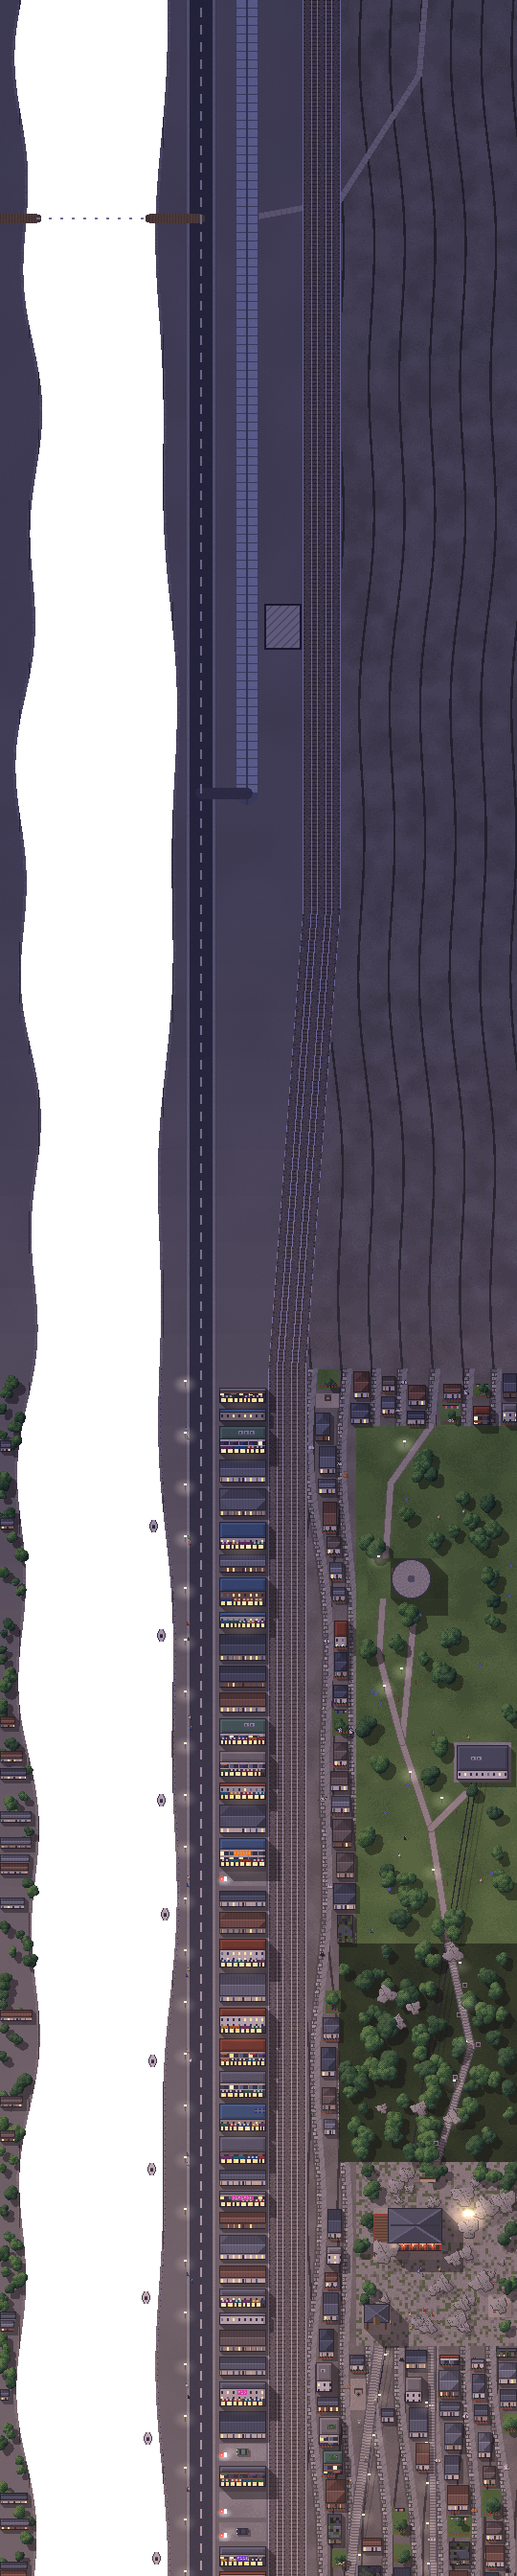
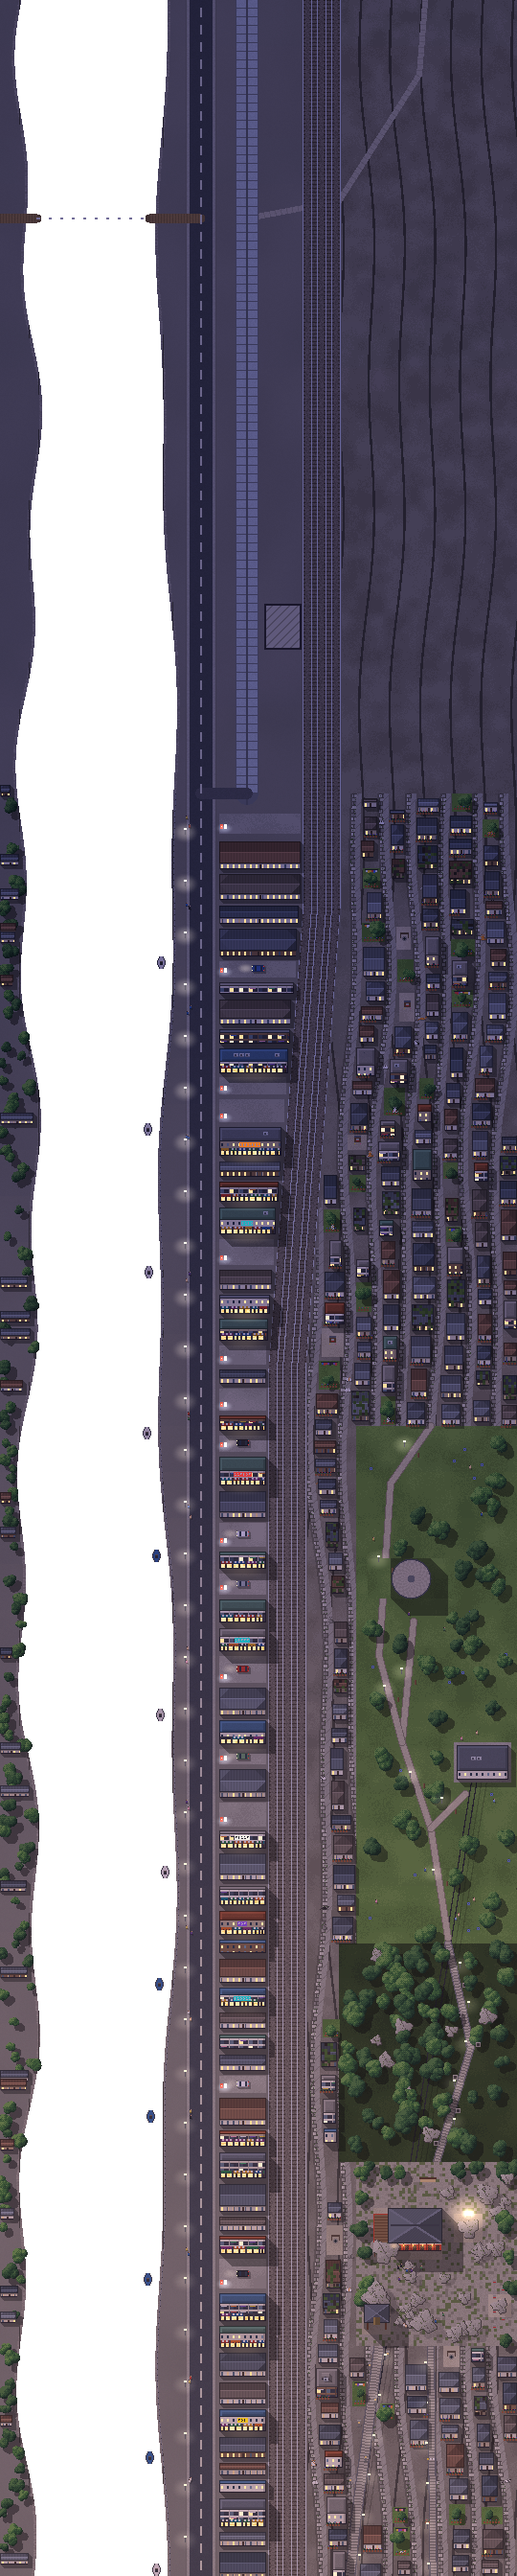
Onomichi, phase 5: Senko-ji's whole hillside (u 3800-5100), the close-up approved by the author. The terraces, walls, lanes, houses, steps and cats now run the whole stretch; the old temples of the temple walk at the heads of their steps, each with its court of raked gravel, its main hall under a gr

diff --git a/docs/plan-onomichi.md b/docs/plan-onomichi.md
@@ -1,6 +1,6 @@
 # Plan: etap 11, ONOMICHI
 
-Stan: **w budowie**. Plan i decyzje D1–D7 przyjęte przez autora 2026-11-18 według rekomendacji („najwyżej zmienimy później”). Fazy 0–1 gotowe, faza 4 czeka na akceptację zbliżenia stoku. Fazy z sekcji 8 idą po kolei, a postęp odznacza się w nich checkboxami.
+Stan: **w budowie**. Plan i decyzje D1–D7 przyjęte przez autora 2026-11-18 według rekomendacji („najwyżej zmienimy później”). Fazy 0, 1, 4 i 5 gotowe (zbliżenie stoku przyjęte przez autora 2026-11-18). Fazy z sekcji 8 idą po kolei, a postęp odznacza się w nich checkboxami.
 
 ## 1. W skrócie
 
@@ -162,12 +162,12 @@ Wymaga: faza 1. Pliki: `tools/art/onomichi/suido.mjs`, `jodoji.mjs`.
 ### Faza 4: zbliżenie stoku do akceptacji
 Wymaga: faza 1. Plik: `tools/art/onomichi/senkoji.mjs`.
 - [x] Zbliżenie 1:1 kawałka stoku (u 4040–4900: pagoda Tennei-ji, uliczka kotów, Senkō-ji, las i park na szczycie, miasto pod torem, nabrzeże) według sekcji 4.1, wysłane autorowi 2026-11-18 (`tools/art/onomichi/senkoji.mjs`, podgląd: `node tools/art/onomichi/overview.mjs --from=4040 --to=4900`)
-- [ ] Akceptacja autora; dalej dopiero po niej
+- [x] Akceptacja autora (2026-11-18: „tak”)
 
 ### Faza 5: stok Senkō-ji (u 3800–5100)
 Wymaga: faza 4. Plik: `tools/art/onomichi/senkoji.mjs`.
-- [ ] Cały odcinek: tarasy, mury, schody, domy, świątynie na różnych wysokościach, Senkō-ji z czerwoną salą, Tamanoiwa (klejnot świeci o zmierzchu), skała-lustro, ścieżka literatury, park na szczycie, kolejka linowa, uliczka kotów, arena minibossa na dachach
-- [ ] Animacje: gondole, koty w miejscu, lampiony i latarnie przy schodach zapalające się o zmierzchu, pociąg pod stokiem
+- [x] Cały odcinek (u 3800–5100): tarasy, mury, schody, domy, świątynie na różnych wysokościach (Daisan-ji, Fukuzen-ji z bramą ze smokiem, Kōmyō-ji, Tennei-ji z pagodą), Senkō-ji z czerwoną salą, Tamanoiwa (klejnot świeci o zmierzchu), skała-lustro, ścieżka literatury, park na szczycie, kolejka linowa, uliczka kotów, arena minibossa na dachach (bez znacznika)
+- [x] Animacje: gondole, koty w miejscu (ogon, ucho, ziewnięcie), latarnie przy schodach i lampiony zapalające się o zmierzchu, pociągi w obie strony na całym torze od zakrętu do dworca (zielony pas, bez barw przewoźnika)
 
 ### Faza 6: Hondōri i dworzec (u 5100–7168)
 Wymaga: faza 1. Pliki: `tools/art/onomichi/hondori.mjs`, `minato.mjs`.
@@ -229,6 +229,7 @@ Po każdej sesji jeden wiersz: kto, która faza, co zrobione, co zostało, na co
 
 | Data | Kto | Faza | Zrobione | Zostało / uwagi |
 |---|---|---|---|---|
+| 2026-11-18 | Claude | 5 | `senkoji.mjs` rysuje cały odcinek 3800–5100: dodane świątynie przy schodach (`temple`: dziedziniec z grabionym żwirem, sala pod wielkim dachem, brama, latarnie, sosna, dzwonnica), pociągi na torze `sanyo`, 24 koty animowane w miejscu; arena kota bez znacznika. Sprawdzone zrzutami w grze w 115 i 143 s. | Pociągi jadą po całym torze, więc widać je też na odcinkach jeszcze w szkicu. Następne: fazy 2, 3 i 6 (wyspy, cieśnina z Jōdo-ji, Hondōri z dworcem). |
 | 2026-11-18 | Claude | 4 | Zbliżenie stoku w `senkoji.mjs` (malarz w `PAINTERS`, rysuje na razie u 4040–4900): tarasy wzdłuż poziomic z murami z granitu i uliczkami u ich stóp, domy pod szarą dachówką, puste domy w bluszczu, ogródki, studnie i kapliczki jizō, pranie i doniczki, schody z poręczami i latarniami, koty (sześć umaszczeń, pięć póz), pagoda Tennei-ji, Senkō-ji z czerwoną salą na skale, głazami, kamiennymi Buddami, lampionami, Tamanoiwą ze świecącym klejnotem, skałą-lustrem i dzwonnicą, las ze ścieżką literatury, park z alejkami, ławkami i okrągłym tarasem, kolejka linowa z dwiema gondolami, miasto pod torem z automatami i podwórkami, latarnie i ludzie na nabrzeżu, łodzie przy nabrzeżu, brzeg Mukaishimy. Zmierzch rozjaśniony w `TOD`. | Czeka na akceptację. Poza u 4040–4900 dalej szkielet; łączenie z resztą w fazie 5. |
 | 2026-11-18 | Claude | 1 | Trasa jako dane w `tools/art/onomichi/route.mjs`, szkielet malowany z danych w `mid.mjs` (na bazie Kawaguchiko; nowe klasy dróg: `express` na filarach, `cycle` z niebieską linią, `arcade` z dachem; tory `mono` w sadach; promy `FERRIES` z pomostami), test `onomichiRoute`, arkusz podglądu, nazwy miejsc w `landmarks.js`. Sprawdzone w grze zrzutami w 20, 75, 120, 165 i 225 s. | Stok to na razie tarasy wzorem; domy, świątynie i schody z detalem w fazach 3–6. Szerokość między drogą nadbrzeżną a torem jest mała (18 jednostek przy Ozaki, pasaż w Hondōri), więc domy tam będą wąskie. Następne: faza 2 (wyspy) albo 4 (zbliżenie stoku do akceptacji). |
 | 2026-11-18 | Claude | 0 | Etap 11 w budowie: `stage11.json` (flaga `wip`, fale zastępcze, napisy PL/EN kart i zapowiedzi), makieta tła (`tools/art/onomichi/route.mjs`, `mid.mjs`, `far.mjs`), skórka `onomichi` z przeciwnikami Kioto na zastępstwo, nazwy odcinków w `landmarks.js`, licznik „JEDENAŚCIE”. Sprawdzone w przeglądarce: etap startuje z `?stage=11`, pasek INNOSHIMA, bez błędów w konsoli. | Etykieta Onomichi na mapie wyboru (tuż obok Hiroszimy) do ustawienia w fazie 15. Muzyka na razie z Kioto. Następna: faza 1 (szkielet trasy). |
